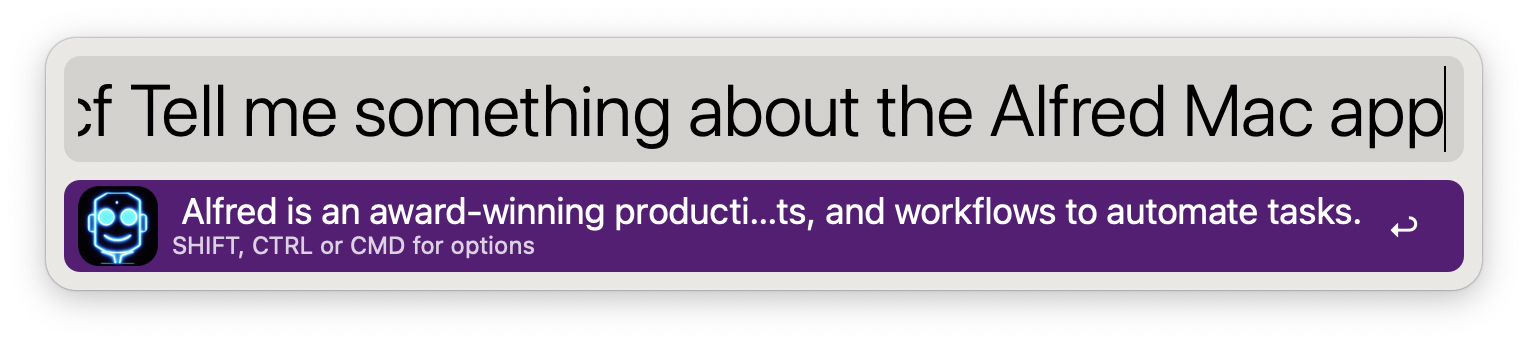
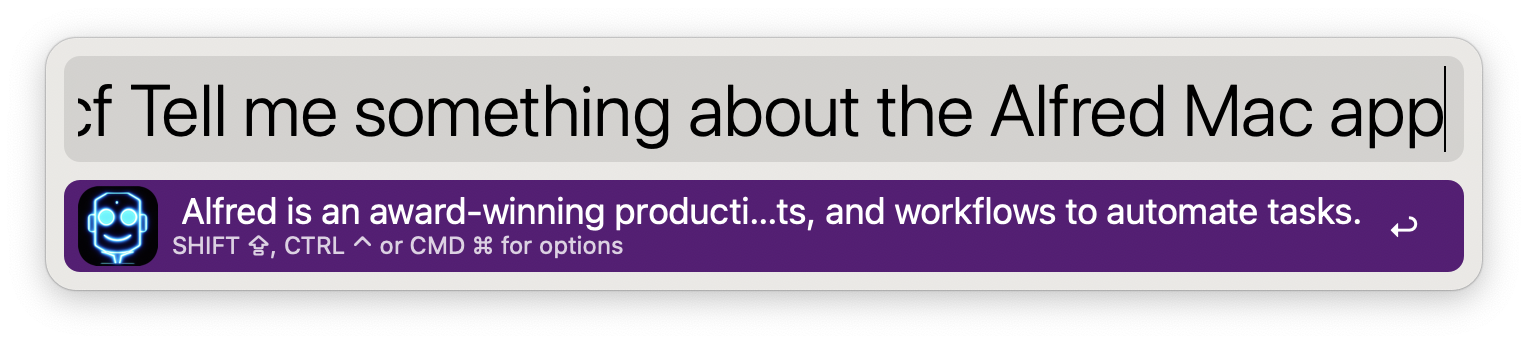
docs: improve documentation

Changed region(s): [[0.1538, 0.6686, 0.4306, 0.7558]]

diff --git a/README.md b/README.md
@@ -14,10 +14,10 @@ You can tweak the workflow to your liking. The following parameters are availabl
 - **Top-p**: Top-p sampling selects from the smallest possible set of words whose cumulative probability exceeds probability p. In this way, the number of words in the set can be dynamically increased and decreased according to the nearest word probability distribution. Default: `1`.
 - **Frequency penalty**: A value between -2.0 and 2.0. The frequency penalty parameter controls the model’s tendency to repeat predictions. Default: `0`.
 - **Presence penalty**: A Value between -2.0 and 2.0. The presence penalty parameter encourages the model to make novel predictions. Default: `0`.
-- **Always save replies**: If enabled, all replies will be saved to a file (`{Save to file directory}/ChatFred.txt`). Default: 'unchecked'.
+- **Always save conversation**: If enabled, all your request and ChatFred's replies will be saved to a file (`{Save to file directory}/ChatFred.txt`). Default: 'unchecked'.
 - **Save to file directory**: Custom directory where the 'ChatFred.txt' should be stored. Default to the user's home directory (`~/`).
 
- You can find more information about these parameters [here](https://platform.openai.com/docs/api-reference/completions/create).
+ You can find more information about the model's parameters [here](https://platform.openai.com/docs/api-reference/completions/create).
 
 ## Usage 🧑💻
 To start the ChatFred workflow, just type ***cf*** or use configure your own hotkey.
@@ -28,19 +28,34 @@ Ask questions:
 Translate text:
 ![Screenshot](assets/images/screenshot2.png)
 
-If the reply is a bit longer just hit <kbd>CMD ⌘</kbd>:
+If the reply is a bit longer just hit <kbd>CMD ⌘</kbd> + <kbd>RETURN ⏎</kbd>:
 ![Screenshot](assets/images/screenshot3.png)
 ![Screenshot](assets/images/screenshot4.png)
 
 ### Options 🤗
 To handle the reply of ChatFred you have the following options.
 - <kbd>CMD ⌘</kbd>: Show the reply in large text (can be combined with <kbd>CTRL ⌃</kbd>)
-- <kbd>OPTION ⌥</kbd>: Let ChatFred speak
+- <kbd>OPTION ⌥</kbd>: Let ChatFred speak 🗣
 - <kbd>CTRL ⌃</kbd>: Copy the reply to the clipboard
-- <kbd>SHIFT ⇧</kbd>: Write the reply to file: `ChatFred.txt`. The default location is the user's home directory (`~/`). You can change the location in the workflow configuration.
+- <kbd>SHIFT ⇧</kbd>: Write the conversation to file: `ChatFred.txt`. The default location is the user's home directory (`~/`). You can change the location in the workflow configuration.
 
+### Save conversations to file 📝
+If you want to save all requests and ChatFred's replies to a file, you can enable this option in the workflow configuration (*Save to file directory*). The default location is the user's home directory (`~/`).
 
+You can also hit <kbd>SHIFT ⇧</kbd> + <kbd>RETURN ⏎</kbd> for saving the reply manually.
 
+Here is an example of the saved replies:
+```
+16. Feb 2023, 07:12:00:
+Request:
+ What is Star Wars?
+
+Reply:
+ Star Wars is a science fiction media franchise created by George Lucas. It includes films, television series, books, comics, video games, and other merchandise. The franchise began with the eponymous 1977 film and quickly became a worldwide pop-culture phenomenon.
+---
+```
+
+### Examples 📚
 GTP-3 is a very powerful model. It can answer questions, write stories, and even write code. You can find more examples [here](https://platform.openai.com/examples).
 
 ## GPT-3 and ChatGPT 🤖
